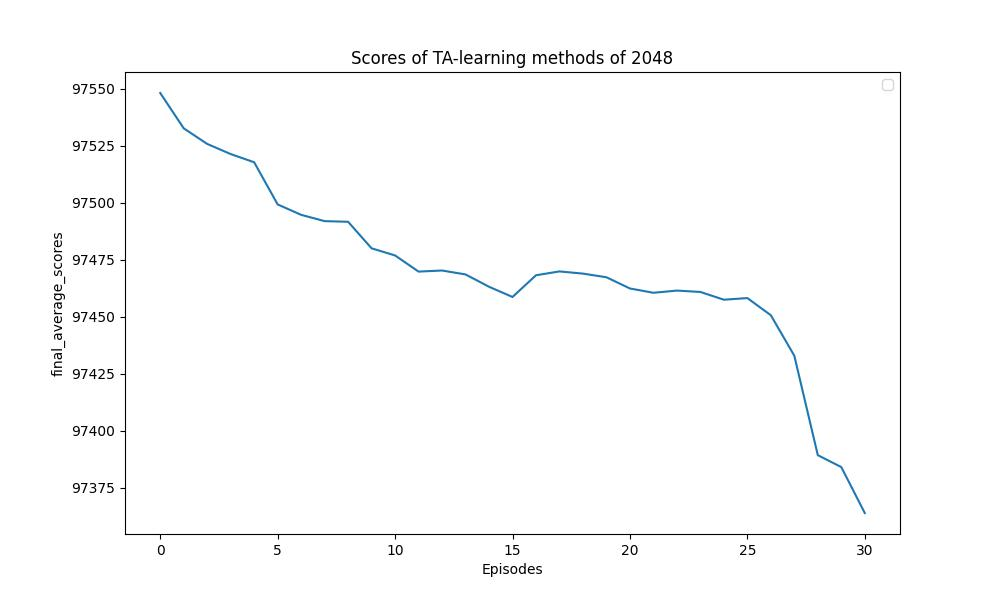
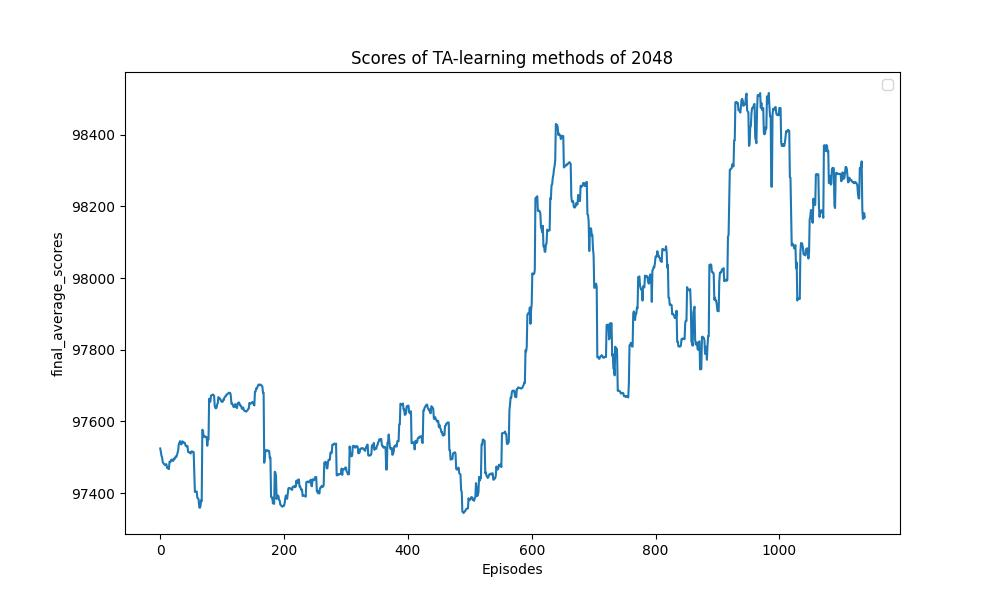
TD form

diff --git a/TD_MCTS.py b/TD_MCTS.py
@@ -2,14 +2,13 @@ import copy
 import random
 import math
 import numpy as np
-from evaluate import eval
 
 # Note: This MCTS implementation is almost identical to the previous one,
 # except for the rollout phase, which now incorporates the approximator.
 
 # Node for TD-MCTS using the TD-trained value approximator
 class TD_MCTS_Node:
-    def __init__(self, state, score, parent=None, action=None):
+    def __init__(self, state, score, env, parent=None, action=None):
         """
         state: current board state (numpy array)
         score: cumulative score at this node
@@ -24,12 +23,11 @@ class TD_MCTS_Node:
         self.visits = 0
         self.total_reward = 0.0
         # List of untried actions based on the current state's legal moves
-        self.untried_actions = [a for a in range(4)]
+        self.untried_actions = [a for a in range(4) if env.is_move_legal(a)]
 
     def fully_expanded(self):
         # A node is fully expanded if no legal actions remain untried.
         return len(self.untried_actions) == 0
-
 
 
 # TD-MCTS class utilizing a trained approximator for leaf evaluation
@@ -41,8 +39,8 @@ class TD_MCTS:
         self.c = exploration_constant
         self.rollout_depth = rollout_depth
         self.gamma = gamma
-        self.max = -100000
-        self.min = 100000
+        self.max=float('-inf')
+        self.min=float('inf')
 
     def create_env_from_state(self, state, score):
         # Create a deep copy of the environment with the given state and score.
@@ -53,57 +51,66 @@ class TD_MCTS:
     def normalize(self,values):
         min_val = self.min
         max_val = self.max
-
         if max_val == min_val:
             return [0] * len(values)
-
         return [(2 * (x - min_val) / (max_val - min_val)) - 1 for x in values]
     def select_child(self, node,sim_env):
+        if sim_env.is_game_over():
+          return node
         # TODO: Use the UCT formula: Q + c * sqrt(log(parent_visits)/child_visits) to select the child
         if node.untried_actions:
-          return node
+          return self.expansion(sim_env,node)
         else:
-          child_reward=[child.total_reward for child in node.children.values()]
+          child_reward = [sum(child.total_reward for child in child_list) / len(child_list)
+                for child_list in node.children.values()]
           child_reward=self.normalize(child_reward)
-          child_visits=[child.visits for child in node.children.values()]
-          # print(f"child_reward:{child_reward}, child_visits:{child_visits}")
+
+          child_visits=[sum(child.visits for child in child_list)
+                for child_list in node.children.values()]
+          
           complmentary=[self.c * np.sqrt(np.log(node.visits) / child_visits[i] ) for i in range(len(child_reward))]
 
           ucb1_scores =[child_reward[i]  + self.c * np.sqrt(np.log(node.visits) / child_visits[i] ) for i in range(len(child_reward))]
-          # print(f"ucb1:{ucb1_scores},complmentary:{complmentary}")
-          # print(np.argmax(ucb1_scores))
-          _,_,_,_=sim_env.step(np.argmax(ucb1_scores))
-          return self.select_child(node.children[np.argmax(ucb1_scores)],sim_env)
+          for act in range(4):
+             if act not in node.children.keys():
+                ucb1_scores.insert(act,-1)
+        #   print(f"ucb1:{ucb1_scores},complmentary:{complmentary}")
+        #   print(f"child_reward:{child_reward}, child_visits:{child_visits}")
+          state,reward,_,_=sim_env.step(np.argmax(ucb1_scores))
+          try:
+            for index,child in enumerate(node.children[np.argmax(ucb1_scores)]):
+              if np.array_equal(child.state, state):
+                  #print(f"state:{state},child.state:{child.state}")
+                  return self.select_child(node.children[np.argmax(ucb1_scores)][index],sim_env)
+              
+            node.children[np.argmax(ucb1_scores)].append(TD_MCTS_Node(state.copy(), reward, sim_env, node, np.argmax(ucb1_scores)))
+            expanded_node = node.children[np.argmax(ucb1_scores)][-1]
+            return expanded_node
+          except:
+            print(ucb1_scores)
     def expansion(self,sim_env,node):
-        if not sim_env.is_game_over:
+        if sim_env.is_game_over():
           return node
         item =node.untried_actions.pop(0)
         state, reward, done, _ =sim_env.step(item)
-        node.children[item] = TD_MCTS_Node(state.copy(), reward, node, item)
-        expanded_node = node.children[item]
+        if item not in node.children.keys():
+          node.children[item] = []
+        node.children[item].append(TD_MCTS_Node(state.copy(), reward, sim_env, node, item))
+        expanded_node = node.children[item][-1]
         return expanded_node
     def rollout(self, sim_env, depth):
         # TODO: Perform a random rollout from the current state up to the specified depth.
-        if depth == 0 or sim_env.is_game_over():
-          return self.approximator.value(sim_env.board)
         rand_num=np.random.rand()
-        best_reward=-10000
-        legal_moves=[a for a in range(4) if sim_env.is_move_legal(a)]
-        if rand_num < 0.1:
-          action = random.choice([a for a in range(4) if sim_env.is_move_legal(a)])
-        else:
-           for i in range(4):
-              moved,sim_state,sim_score=eval(sim_env.board,sim_env.score,i)
-              if not moved:
-                 continue
-              total_reward=sim_score+self.gamma*self.approximator.value(sim_state)
-              if total_reward>best_reward:
-                  if i in legal_moves:
-                    best_reward=total_reward
-                    action=i
-        score=self.approximator.value(sim_env.board)
+        # if sim_env.is_game_over():
+        #   return 0
+        if rand_num<1.0 or depth==0 or sim_env.is_game_over():
+          #print(self.approximator.value(sim_env.board))
+          return self.approximator.value(sim_env.afterstate_board)
+        
+        action = random.choice([a for a in range(4) if sim_env.is_move_legal(a)])
         state, reward, done, _ =sim_env.step(action)
-        return score+self.gamma*self.rollout(sim_env, depth - 1)
+        
+        return self.rollout(sim_env, depth - 1)
 
     def backpropagate(self, node, reward):
         # TODO: Propagate the reward up the tree, updating visit counts and total rewards.
@@ -119,10 +126,10 @@ class TD_MCTS:
         node = root
         sim_env = self.create_env_from_state(node.state, node.score)
         # TODO: Selection: Traverse the tree until reaching a non-fully expanded node.
-        selected_node=self.select_child(node,sim_env)
+        expanded_node=self.select_child(node,sim_env)
 
         # TODO: Expansion: if the node has untried actions, expand one.
-        expanded_node=self.expansion(sim_env,selected_node)
+        
 
         # Rollout: Simulate a random game from the expanded node.
         depth=self.rollout_depth
@@ -136,17 +143,26 @@ class TD_MCTS:
         Computes the visit count distribution for each action at the root node.
         '''
         legal_moves=[action for action in range(4) if env.is_move_legal(action)]
-        child_visits= [child.visits for child in root.children.values()]
+        child_reward = [sum(child.total_reward for child in child_list) / len(child_list)
+                for child_list in root.children.values()]
+        for act in range(4):
+             if act not in root.children.keys():
+               child_reward.insert(act,-1)
+        child_visits=[sum(child.visits for child in child_list)
+                for child_list in root.children.values()]
+        for act in range(4):
+             if act not in root.children.keys():
+               child_visits.insert(act,0)
         total_visits = sum(child_visits[v] for v in legal_moves)
         distribution = np.zeros(4)
         best_visits = -1
         best_action = None
-        for action, child in root.children.items():
+        for action in root.children.keys():
             if action not in legal_moves:
               distribution[action] = 0
             else:
-              distribution[action] = child.visits / total_visits if total_visits > 0 else 1/len(legal_moves)
-              if child.visits > best_visits:
-                  best_visits = child.visits
+              distribution[action] = child_visits[action] / total_visits if total_visits > 0 else 1/len(legal_moves)
+              if child_visits[action] > best_visits:
+                  best_visits = child_visits[action]
                   best_action = action
-        return best_action, distribution
+        return best_action, distribution, child_reward, child_visits

diff --git a/student_agent.py b/student_agent.py
@@ -27,7 +27,7 @@ class Game2048Env(gym.Env):
         # Action space: 0: up, 1: down, 2: left, 3: right
         self.action_space = spaces.Discrete(4)
         self.actions = ["up", "down", "left", "right"]
-
+        self.afterstate_board=None
         self.last_move_valid = True  # Record if the last move was valid
 
         self.reset()
@@ -43,6 +43,7 @@ class Game2048Env(gym.Env):
     def add_random_tile(self):
         """Add a random tile (2 or 4) to an empty cell"""
         empty_cells = list(zip(*np.where(self.board == 0)))
+        self.afterstate_board=self.board.copy()
         if empty_cells:
             x, y = random.choice(empty_cells)
             self.board[x, y] = 2 if random.random() < 0.9 else 4
@@ -239,7 +240,7 @@ class Game2048Env(gym.Env):
     
 env = Game2048Env()
 state=env.reset()
-file_id = "1u2VJeEOoJGEDjwa5CNfemFwU97fIpdwO"
+file_id = "1490yKCiHxSWYitM44gvqkUCv7tK2-987"
 gdown.download(id=file_id, output="stage_1.pkl", fuzzy=True)
 patterns = [[(0,0),(1,0),(0,1),(1,1),(0,2),(1,2)],[(1,0),(2,0),(1,1),(2,1),(1,2),(2,2)],[(0,0),(0,1),(0,2),(0,3),(1,0),(1,1)],[(1,0),(1,1),(1,2),(1,3),(2,0),(2,1)]]
 approximator_1=NTupleApproximator(board_size=4, patterns=patterns)
@@ -249,15 +250,14 @@ with open('stage_1.pkl', 'rb') as f:
     else:
         print("No File!!")
 
-td_mcts = TD_MCTS(env, approximator_1, iterations=200, exploration_constant=1.41, rollout_depth=20, gamma=0.99)
+td_mcts = TD_MCTS(env, approximator_1, iterations=5, exploration_constant=0.0, rollout_depth=20, gamma=0.99)
 
 def get_action(state, score):
     env.board=state
     env.score=score
     #return random.choice([0, 1, 2, 3]) # Choose a random action
-    
     # You can submit this random agent to evaluate the performance of a purely random strategy.
-    root = TD_MCTS_Node(state, env.score)
+    root = TD_MCTS_Node(state, env.score,env)
 
     # Run multiple simulations to build the MCTS tree
     for _ in range(td_mcts.iterations):
